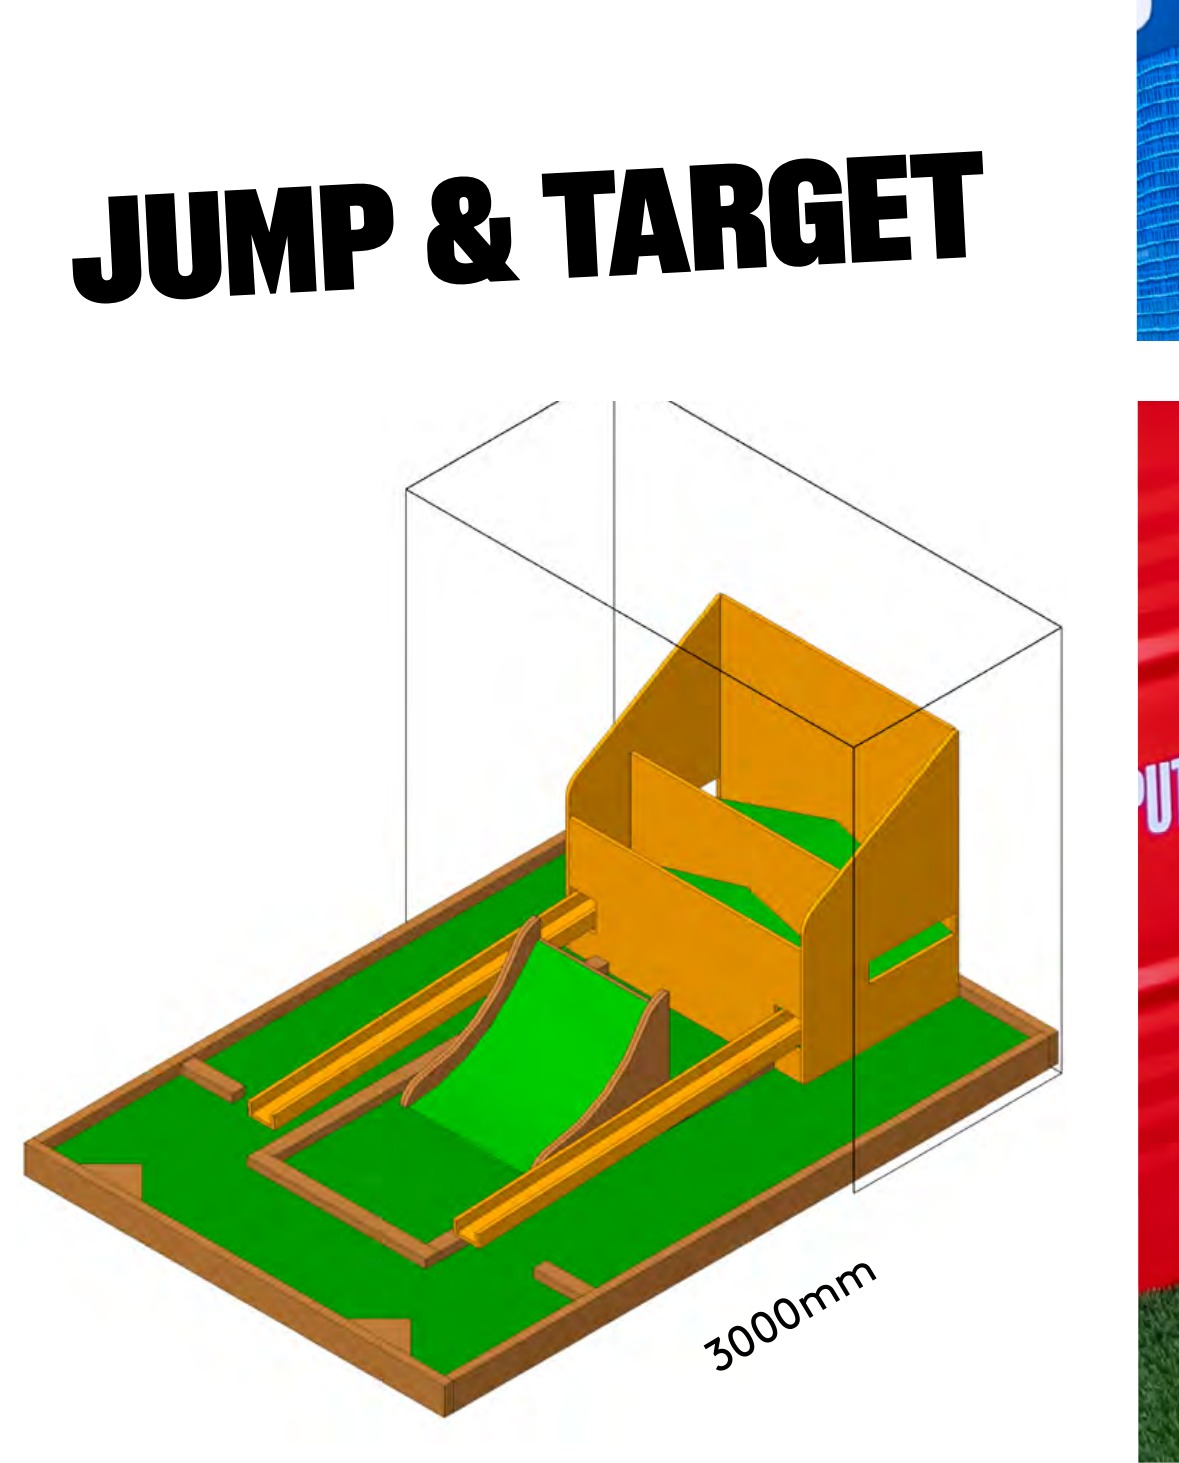
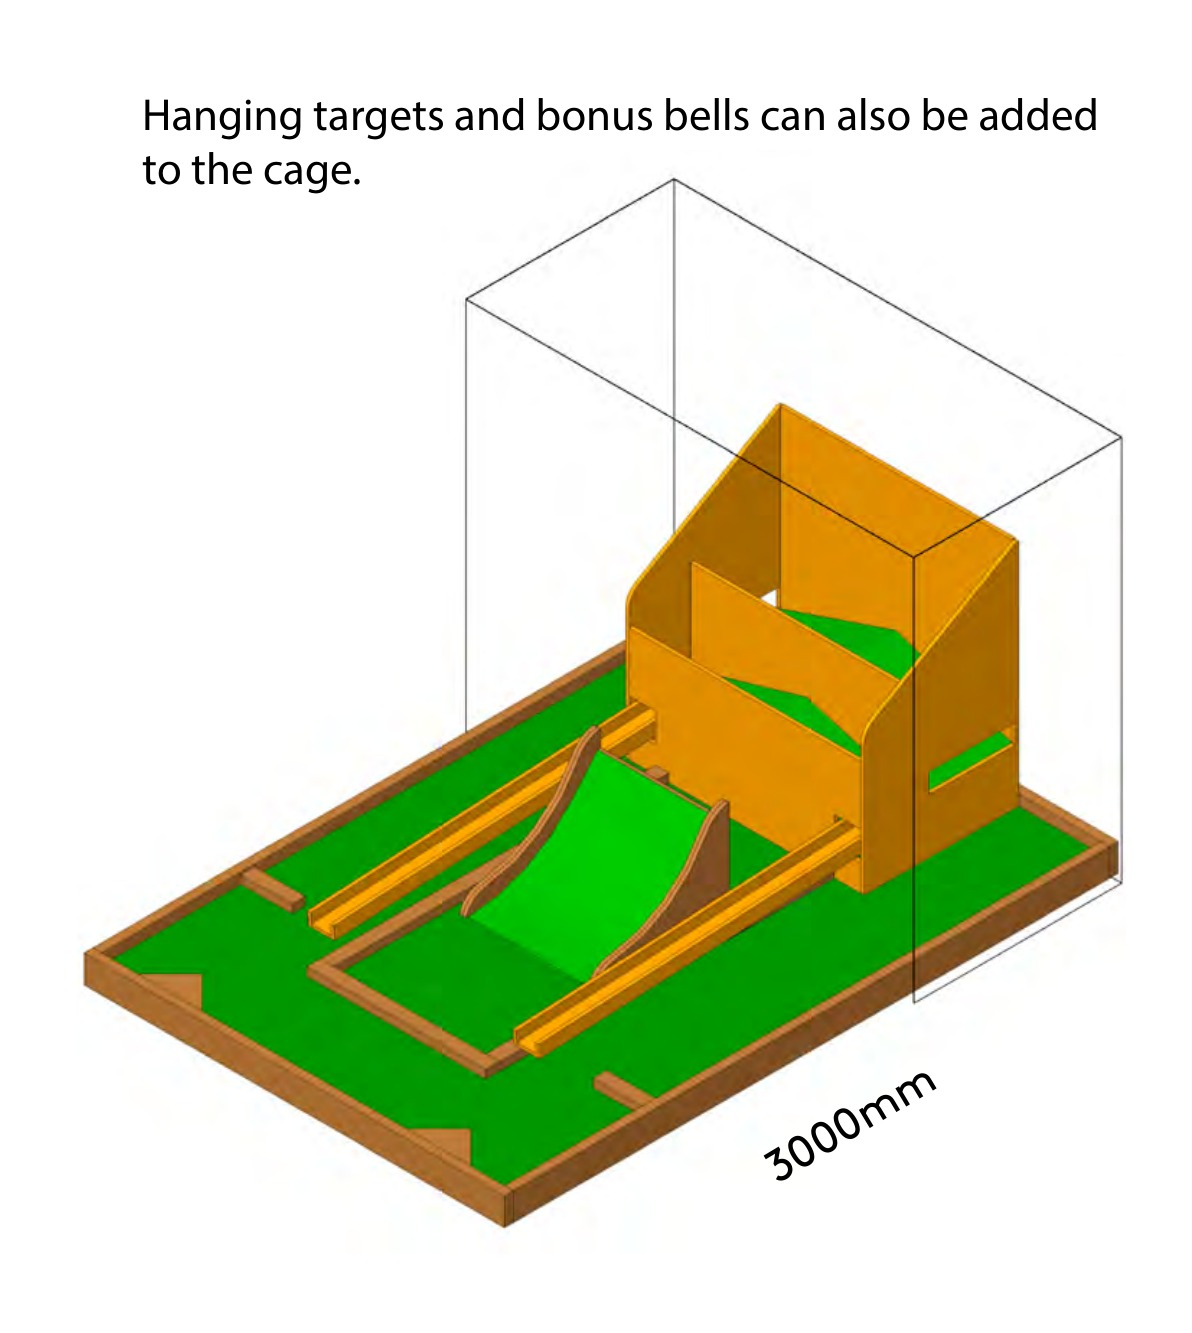
Live Nation holes: catalogue title above image in card body, image is just the render on white
- Tightened the render crop to 30% column width so photo edges no
  longer leak into the image.
- Image is only the 3D isometric render on white, padded for breathing
  room — no title or body copy baked in.
- Catalogue title (Loop da Loop, Balancing Beam, etc.) now sits in the
  card body above the render, in the display font, editable per-hole
  via a new catalogue_title slot.

diff --git a/src/presentations.js b/src/presentations.js
@@ -54,54 +54,63 @@ Every figure, image and paragraph in this pack can be tailored to your brief.`,
       items: [
         {
           n: 1,
+          catalogueTitle: 'Loop da Loop',
           name: 'Mini loop + mini hill',
           image: hole(16),
           copy: 'A compact combo opener: a scaled-down loop paired with a mini hill. Perhaps the most beloved of all our obstacles — gravity-defying but unforgiving if you swing too hard.',
         },
         {
           n: 2,
+          catalogueTitle: 'Jump & Target',
           name: 'Jump & catcher',
           image: hole(11),
           copy: 'Power and accuracy both matter. Players launch the ball off a ramp and aim to land it in a catcher — the ball then rolls out to the hole. Miss the catcher and it’s a putt on the greens to finish.',
         },
         {
           n: 3,
+          catalogueTitle: '½ Pipe',
           name: '½ pipe',
           image: hole(8),
           copy: 'Players have to swoop the ball across two opposing ramps. Playing the angles is critical — misjudge it and the ball rests in a trap space, back at the start.',
         },
         {
           n: 4,
+          catalogueTitle: 'Balancing Beam',
           name: 'Long beam',
           image: hole(9),
           copy: 'A 3-metre balancing beam. Players hit up the beam and over small bumpers to the hole. Side bumpers and thick grass make the fairway harder to recover from if the ball drops off the beam.',
         },
         {
           n: 5,
+          catalogueTitle: 'Shooter Games',
           name: 'Shooter deck game',
           image: hole(17),
           copy: 'Hit the ball up a ramp to load the game, then use the club like a pool cue on the deck targets to score bonuses and continue. A unique gameplay piece that can be themed to match.',
         },
         {
           n: 6,
+          catalogueTitle: 'Loop da Loop',
           name: 'Big loop + ramp',
           image: hole(16),
           copy: 'The signature obstacle, sized up: a big loop paired with a lead-in ramp. Watch your speed as well as your angle — too much power and the ball flies right out the other side.',
         },
         {
           n: 7,
+          catalogueTitle: 'Big Ramp & Ball Runs',
           name: 'Big ramp + ball runs',
           image: hole(18),
           copy: 'Hit the ball to the top of a big ramp — it then gutters down a randomising ball run. Depending where the ball comes out the player may get a hole in 1, or have to putt to finish. Layout variations fit the space.',
         },
         {
           n: 8,
+          catalogueTitle: 'Long Ramps',
           name: '¼ pipe',
           image: hole(14),
           copy: 'A tough shot requiring perfect power and line. A slow gradual slope raises to target holes at the end; land in the side pockets to score bonus points.',
         },
         {
           n: 9,
+          catalogueTitle: 'Skeeball',
           name: 'Skeeball',
           image: hole(15),
           copy: 'Based on the classic arcade game. Players take a shot up a ramp and aim for specific targets to score bonus points. Used as the last hole — it catches and stores the balls — and can double as a promotional / marketing piece.',

diff --git a/src/Presentation.jsx b/src/Presentation.jsx
@@ -376,6 +376,7 @@ function HolesTab({ slug, fallback, onImage }) {
           const imageKey = `present.${slug}.holes.item_${h.n}.image`
           const nameKey = `present.${slug}.holes.item_${h.n}.name`
           const copyKey = `present.${slug}.holes.item_${h.n}.copy`
+          const titleKey = `present.${slug}.holes.item_${h.n}.catalogue_title`
           const raw = c(imageKey, h.image)
           const d = parseImg(raw)
           return (
@@ -391,18 +392,34 @@ function HolesTab({ slug, fallback, onImage }) {
                 flexDirection: 'column',
               }}
             >
-              {/* Image: title (from catalogue) + 3D render on white */}
+              {/* Catalogue title above the image */}
+              <div style={{ padding: '16px 18px 10px' }}>
+                <h3
+                  className="display"
+                  style={{
+                    fontSize: 22,
+                    color: 'var(--cream)',
+                    lineHeight: 1.05,
+                    textTransform: 'uppercase',
+                    letterSpacing: '0.01em',
+                  }}
+                >
+                  <Editable k={titleKey}>{c(titleKey, h.catalogueTitle || h.name)}</Editable>
+                </h3>
+              </div>
+
+              {/* 3D render only, on white */}
               <div
-                style={{ cursor: 'zoom-in', aspectRatio: '1179 / 1463', background: '#fff', overflow: 'hidden' }}
+                style={{ cursor: 'zoom-in', aspectRatio: '1192 / 1333', background: '#fff', overflow: 'hidden' }}
                 onClick={() => onImage(d.src)}
               >
-                <EditableImage k={imageKey} aspect="1179/1463" currentValue={raw}>
+                <EditableImage k={imageKey} aspect="1192/1333" currentValue={raw}>
                   <img src={d.src} alt="" style={imgStyle(d)} />
                 </EditableImage>
               </div>
 
-              {/* Body: hole number + name + copy */}
-              <div style={{ padding: '14px 18px 16px', display: 'flex', flexDirection: 'column', gap: 8, flex: 1 }}>
+              {/* Hole N · Name · copy */}
+              <div style={{ padding: '14px 18px 18px', display: 'flex', flexDirection: 'column', gap: 8, flex: 1 }}>
                 <div style={{ display: 'flex', alignItems: 'baseline', gap: 10 }}>
                   <span
                     className="display"
